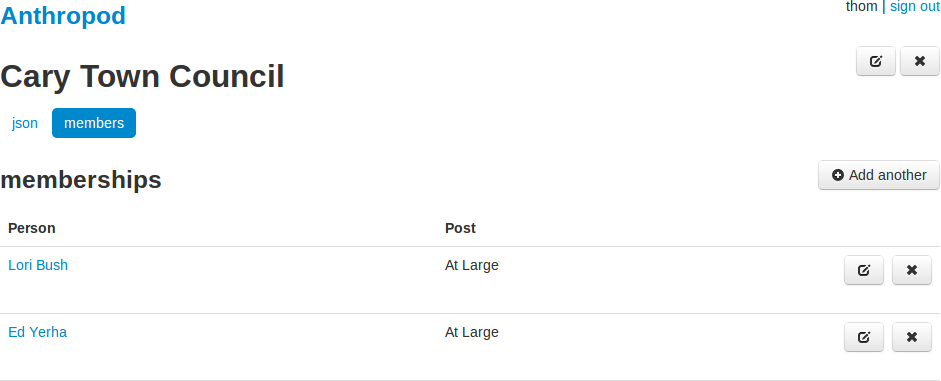
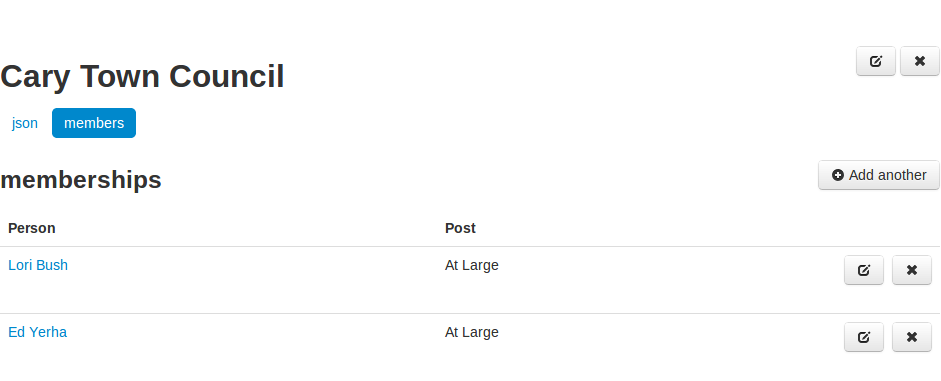
Purge anthropod references; replace with Open Civic Data Editor

Changed region(s): [[0.0, 0.9816, 1.0, 1.0], [0.0, 0.0, 0.1541, 0.0866], [0.8937, 0.0, 1.0, 0.0289]]

diff --git a/anthropod/index.rst b/anthropod/index.rst
@@ -1,25 +1,28 @@
-Anthropod
-=========
+.. |--| unicode:: U+2013   .. en dash
+.. |---| unicode:: U+2014  .. em dash, trimming surrounding whitespace
+   :trim:
+
+Using the Open Civic Data Editor
+===================================
 
 
-Welcome! This documentation is about a tool that we call
-`Anthropod <https://github.com/opencivicdata/anthropod>`_.
-Anthropod is a user-friendly interface to allow activists to manually
-curate data regarding Legislative bodies.
+Welcome! This documentation is about a tool that we call the
+`Open Civic Data Editor <https://github.com/opencivicdata/anthropod>`_.
+The OCD Editor is a user-friendly interface to allow activists to manually curate data regarding Legislative bodies.
 
 This lets interested contributors collect data and curate the data when
 it would be too painful to write (and maintain!) a scraper. Often times the
 data that we collect doesn't change enough (or there isn't enough of it)
 to make the time spent writing a scraper worth the effort.
 
-This is where Anthropod comes in. Using anthropod, you can output data in the
+This is where the Editor comes in. Using the Editor, you can output data in the
 same format as the scrapers output, or even manually augment or correct
 the data that the scrapers pulled in.
 
-Why use Anthropod?
-------------------
+Why use the Open Civic Data Editor?
+-------------------------------------
 
-Anthropod is just another means of collecting data. When data is really hard
+Open Civic Data Editor is just another means of collecting data. When data is really hard
 to continually scrape and update, it makes sense to spend the man-hours
 that would have gone to developing a scraper on manually collecting the data
 instead.
@@ -32,9 +35,8 @@ situation.
 OK. I'm onboard. What next?
 ---------------------------
 
-Great, let's jump right in - the Anthropod instance the Municipal OpenCivic
-project is using can be found at
-`anthro.openstates.org <http://anthro.openstates.org/collect/geo/select/>`_,
+Great, let's jump right in |---| the Open Civic Data Editor can be found at
+`editor.opencivicdata.org <http://editor.opencivicdata.org/collect/geo/select/>`_,
 so pop that open and let's start!
 
 .. toctree::

diff --git a/anthropod/create_org.rst b/anthropod/create_org.rst
@@ -6,7 +6,7 @@ Creating a new organization involves two steps. First, we need to choose a geogr
 Select a Place
 ++++++++++++++++++++++++
 
-To create a new organization, navigate to the anthropod home page and click on the button to create a new organization. The page will prompt you to select a place to associate with the new organization. Organizations are related to geographic divisions, which form a hierarchy.
+To create a new organization, navigate to the Open Civic Data Editor `home page <http://editor.opencivicdata.org/collect/>`_ and click on the button to `create a new organization <http://editor.opencivicdata.org/collect/org/create/>`_. The page will prompt you to select a place to associate with the new organization. Organizations are related to geographic divisions, which form a hierarchy.
 
 .. image:: ../_static/create_org_select_form.png
   :align: center
